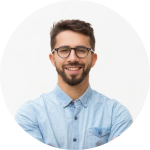
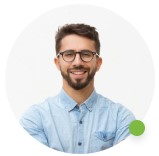
Sidebar Done

diff --git a/index.html b/index.html
@@ -8,8 +8,130 @@
     <title>My Resume</title>
 </head>
 <body>
-    <div id="sidebar">
-        <img id="profile_pic", src="./assets/profile.jpg" alt="profile image" />
-    </div>
+    <main class="main-content">
+        <section class="left-section">
+            <div class="left-content">
+                <div class="group">
+                    <img src="./assets/Profile.jpg" alt="Profile Picture" id="left-section-ProfilePic"> 
+                    <h4 class="title">Rayan Adlardard</h4>
+                    <p class="description">Front-end Developer</p>
+                    <div class="social-media">
+                        <span class="logo-icon" id="facebook">
+                            <a href="https://facebook.com">
+                                <img src="./assets/Icons-facebook.svg" alt="Facebook Logo" class="logo">
+                            </a>
+                        </span>
+                        <span class="logo-icon" id="instagram">
+                            <a href="https://instagram.com">
+                                <img src="./assets/Icons-instagram.svg" alt="Instagram Logo">
+                            </a>
+                        </span>
+                        <span class="logo-icon" id="twitter">
+                            <a href="https://twitter.com">
+                                <img src="./assets/Icons-twitter.svg" alt="twitter Logo">
+                            </a>
+                        </span>
+                        <span class="logo-icon" id="linkedin">
+                            <a href="https://LinkedIn.com">
+                                <img src="./assets/Icons-linkedin.svg" alt="LinkedIn Logo">
+                            </a>
+                        </span>
+                        <span class="logo-icon" id="youtube">
+                            <a href="https://youtube.com">
+                                <img src="./assets/Icons-Youtube.svg" alt="Youtube Logo">
+                            </a>
+                        </span>
+                        <span class="logo-icon" id="dribbble">
+                            <a href="https://google.com">
+                                <img src="./assets/Icons-dribbble.svg" alt="Dribbble Logo">
+                            </a>
+                        </span>
+                    </div>
+                </div>
+                <div class="group">
+                    <div class="personal-info">
+                        <p id="field">Age: </p>
+                        <p>24</p>
+                    </div>
+                    <div class="personal-info">
+                        <p id="field">Residence: </p>
+                        <p>BD</p>
+                    </div>
+                    <div class="personal-info">
+                        <p id="field">Freelance: </p>
+                        <p id="available-green">Available</p>
+                    </div>
+                    <div class="personal-info">
+                        <p id="field">Address: </p>
+                        <p>Dhaka,Bangladesh</p>
+                    </div>
+                </div>
+                <div class="group">
+                    <h4 class="title" id="languages">Languages</h4>
+                    <div class="description" id="languages">
+                        <p>Persian: </p>
+                        <p>Native</p>
+                    </div>
+                    <div class="description" id="languages">
+                        <p>English: </p>
+                        <p>Advanced</p>
+                    </div>
+                    <div class="description" id="languages">
+                        <p>Spanish: </p>
+                        <p>Basic</p>
+                    </div>
+                </div>
+                <div class="group">
+                    <h4 class="title" id="languages">Contact Information</h4>
+                    <div class="description" id="languages">
+                        <p>Email: </p>
+                        <p>Test@Gmail.Com</p>
+                    </div>
+                    <div class="description" id="languages">
+                        <p>Phone: </p>
+                        <p>091255550121</p>
+                    </div>
+                    <div class="description" id="languages">
+                        <p>Telegram: </p>
+                        <p>@Test</p>
+                    </div>
+                    <div class="description" id="languages">
+                        <p>Skype: </p>
+                        <p>@Test</p>
+                    </div>
+                </div>
+                <div class="group">
+                    <h4 class="title" id="languages">Skills</h4>
+                    <div class="description" id="skills">
+                        <img src="./assets/Icons.svg" alt="Icon" id="skills-icon">
+                        <p>Bootstrap, Materialize</p>
+                    </div>
+                    <div class="description" id="skills">
+                        <img src="./assets/Icons.svg" alt="Icon" id="skills-icon">
+                        <p>Stylus, Sass, Less</p>
+                    </div>
+                    <div class="description" id="skills">
+                        <img src="./assets/Icons.svg" alt="Icon" id="skills-icon">
+                        <p>Gulp, Webpack, Grunt</p>
+                    </div>
+                    <div class="description" id="skills">
+                        <img src="./assets/Icons.svg" alt="Icon" id="skills-icon">
+                        <p>GIT Knowledge</p>
+                    </div>
+                </div>
+                <div class="downloadBTN">
+                    <a href="http://www.google.com/">
+                        <img src="./assets/Rectangle 3.png" alt="Rectangle" id="RectangleBTN">
+                        <div id="textBTN">DOWNLOAD</div>
+                    </a>
+                </div>
+            </div>
+        </section>
+        <section class="right-section">
+            <div class="right-content">
+                
+            </div>
+        </section>
+    </main>
 </body>
 </html>

diff --git a/style.scss b/style.scss
@@ -1,22 +1,123 @@
 @use "variables";
+@import url('https://fonts.googleapis.com/css2?family=Inter:wght@100;300;400;500;600;700&display=swap');
 
 
 *{
     padding: 0;
     margin: 0;
     box-sizing: border-box;
+    font-family: 'Inner', sans-serif;
 }
 
 body {
     background-color: variables.$background;
 }
 
-#sidebar {
+.main-content {
+    min-height: 100vh;
+    margin: 0 auto;
+    width: 100%;
+    display: grid;
+    grid-template-columns: repeat(4, 1fr);
+}
+
+.left-section {
+    height: 100%;
+    grid-column: span 1;
     background-color: variables.$sidebarBackground;
-    display: inline-block;
+}
+
+.right-section {
+    height: 100%;
+    grid-column: span 3;
+}
+
+.left-content {
+    padding: 3rem 2rem;
+    align-content: center;
+}
+
+.group {
+    width: 100%;
+    border-bottom: 1.5px solid variables.$grey-lines;
+    padding: 1.5rem 0;
+}
+
+#left-section-ProfilePic {
+    position: relative;
+    z-index: 1;
+    padding-bottom: 1rem;
+    align-items: center;
+    width: 100%;
+} 
+
+.title {
+    color: variables.$title;
+    font-size: 18px;
+    font-weight: 500;
+    text-align: center;
+    padding-bottom: 1rem;
+} 
+
+.description {
+    color: variables.$description;
+    font-size: 15px;
+    font-weight: 400;
+    text-align: center;
+    padding-bottom: 1rem;
+}
+
+.logo-icon {
+    background-color: variables.$orange;
+    border-radius: 50%;
+}
+
+.personal-info { 
+    color: variables.$title;
+    display: flex;
+    justify-content: space-between;
+    font-size: 15px;
+    font-weight: 400;
+    padding-bottom: 0.5rem;
+}
+
+#field {
+    background-color: variables.$orange;
+}
+
+#available-green {
+    color: variables.$green;
+}
+
+#languages {
+    text-align: start;
+    display: flex;
+    justify-content: space-between;
+}
+
+#skills {
+    text-align: left;
+    display: flex;
+}
+
+#skills-icon {
+    padding-right: 1rem;
+}
+
+#RectangleBTN {
+    width: 70%;
+    padding: 1.5rem 0;
+}
+
+#textBTN {
     position: absolute;
-    width: 305px;
-    height: 1315px;
-    left: 0px;
-    top: 0px;
+    top: 50%;
+    left: 50%;
+    transform: translate(-50%, -50%);
+    color: black;
+}
+
+.downloadBTN {
+    position: relative;
+    text-align: center;
 }

diff --git a/style.css b/style.css
@@ -1,7 +1,122 @@
+@import url("https://fonts.googleapis.com/css2?family=Inter:wght@100;300;400;500;600;700&display=swap");
 * {
-  padding: 0px;
-  margin: 0px;
+  padding: 0;
+  margin: 0;
   box-sizing: border-box;
+  font-family: "Inner", sans-serif;
+}
+
+body {
+  background-color: #E5E5E5;
+}
+
+.main-content {
+  min-height: 100vh;
+  margin: 0 auto;
+  width: 100%;
+  display: grid;
+  grid-template-columns: repeat(4, 1fr);
+}
+
+.left-section {
+  height: 100%;
+  grid-column: span 1;
+  background-color: #FFFFFF;
+}
+
+.right-section {
+  height: 100%;
+  grid-column: span 3;
+}
+
+.left-content {
+  padding: 3rem 2rem;
+  align-content: center;
+}
+
+.group {
+  width: 100%;
+  border-bottom: 1.5px solid #F0F0F6;
+  padding: 1.5rem 0;
+}
+
+#left-section-ProfilePic {
+  position: relative;
+  z-index: 1;
+  padding-bottom: 1rem;
+  align-items: center;
+  width: 100%;
+}
+
+.title {
+  color: #2B2B2B;
+  font-size: 18px;
+  font-weight: 500;
+  text-align: center;
+  padding-bottom: 1rem;
+}
+
+.description {
+  color: #767676;
+  font-size: 15px;
+  font-weight: 400;
+  text-align: center;
+  padding-bottom: 1rem;
+}
+
+.logo-icon {
+  background-color: #FFB400;
+  border-radius: 50%;
+}
+
+.personal-info {
+  color: #2B2B2B;
+  display: flex;
+  justify-content: space-between;
+  font-size: 15px;
+  font-weight: 400;
+  padding-bottom: 0.5rem;
+}
+
+#field {
+  background-color: #FFB400;
+}
+
+#available-green {
+  color: #7EB942;
+}
+
+#languages {
+  text-align: start;
+  display: flex;
+  justify-content: space-between;
+}
+
+#skills {
+  text-align: left;
+  display: flex;
+}
+
+#skills-icon {
+  padding-right: 1rem;
+}
+
+#RectangleBTN {
+  width: 70%;
+  padding: 1.5rem 0;
+}
+
+#textBTN {
+  position: absolute;
+  top: 50%;
+  left: 50%;
+  transform: translate(-50%, -50%);
+  color: black;
+}
+
+.downloadBTN {
+  position: relative;
+  text-align: center;
 }
 
 /*# sourceMappingURL=style.css.map */

diff --git a/_variables.scss b/_variables.scss
@@ -1,2 +1,9 @@
 $background: #E5E5E5;
 $sidebarBackground: #FFFFFF;
+$description: #767676;
+$title: #2B2B2B;
+$orange: #FFB400;
+$grey-lines: #F0F0F6;
+$green: #7EB942;
+
+
